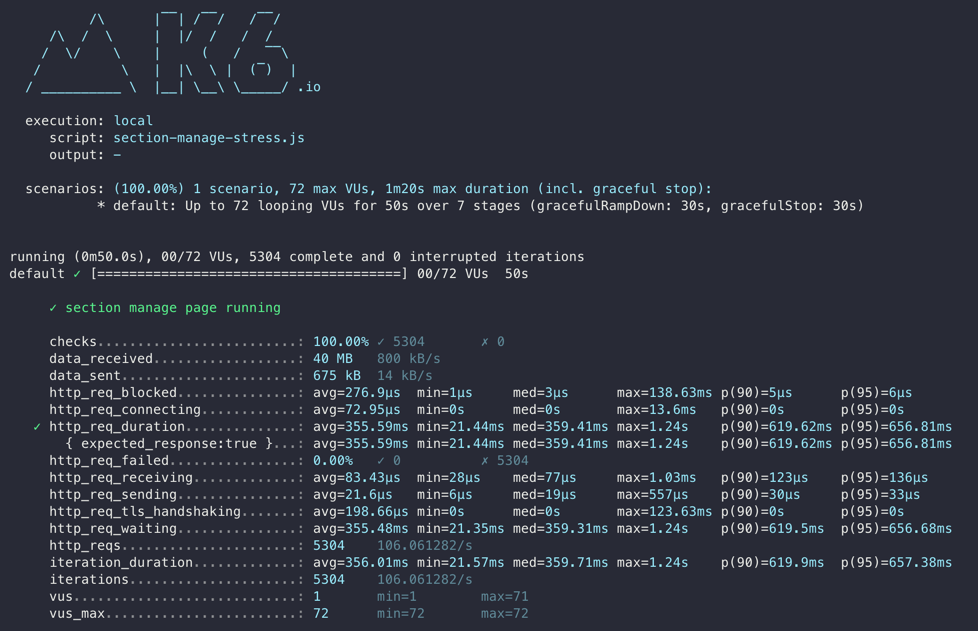
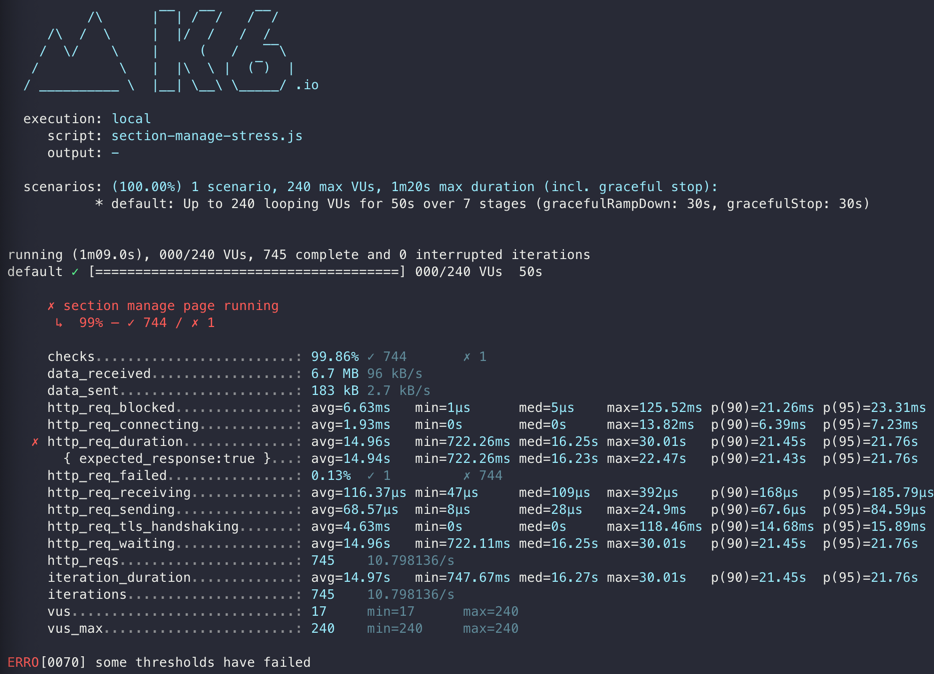
docs : stress 부하 테스트에서 요청이 실패하는 임계점

diff --git a/k6-script/mainpage/mainpage-stress.js b/k6-script/mainpage/mainpage-stress.js
@@ -3,12 +3,13 @@ import { check, sleep} from 'k6';
 
 export let options = {
     stages: [
-        { duration: '5s', target: 12},
-        { duration: '10s', target: 24},
-        { duration: '5s', target: 36},
-        { duration: '10s', target: 48},
-        { duration: '5s', target: 60},
-        { duration: '10s', target: 72},
+        { duration: '5s', target: 140},
+        { duration: '10s', target: 160},
+        { duration: '5s', target: 180},
+        { duration: '10s', target: 200},
+        { duration: '5s', target: 220},
+        { duration: '10s', target: 240},
+        { duration: '10s', target: 245},
         { duration: '5s', target: 0}
     ],
     thresholds: {

diff --git a/k6-script/section-manage/section-manage-stress.js b/k6-script/section-manage/section-manage-stress.js
@@ -3,12 +3,12 @@ import { check, sleep} from 'k6';
 
 export let options = {
     stages: [
-        { duration: '5s', target: 12},
-        { duration: '10s', target: 24},
-        { duration: '5s', target: 36},
-        { duration: '10s', target: 48},
-        { duration: '5s', target: 60},
-        { duration: '10s', target: 72},
+        { duration: '5s', target: 140},
+        { duration: '10s', target: 160},
+        { duration: '5s', target: 180},
+        { duration: '10s', target: 200},
+        { duration: '5s', target: 220},
+        { duration: '10s', target: 240},
         { duration: '5s', target: 0}
     ],
     thresholds: {

diff --git a/k6-script/member-update/member-update-stress.js b/k6-script/member-update/member-update-stress.js
@@ -3,12 +3,12 @@ import {check, sleep} from 'k6';
 
 export let options = {
     stages: [
-        { duration: '5s', target: 12},
-        { duration: '10s', target: 24},
-        { duration: '5s', target: 36},
-        { duration: '10s', target: 48},
-        { duration: '5s', target: 60},
-        { duration: '10s', target: 72},
+        { duration: '5s', target: 140},
+        { duration: '10s', target: 160},
+        { duration: '5s', target: 180},
+        { duration: '10s', target: 200},
+        { duration: '5s', target: 220},
+        { duration: '10s', target: 240},
         { duration: '5s', target: 0}
     ],
     thresholds: {
